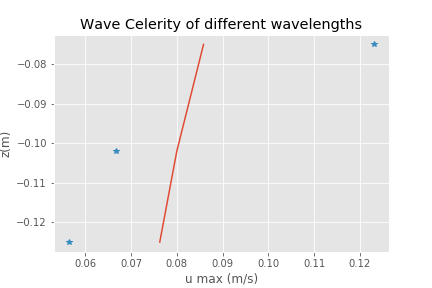
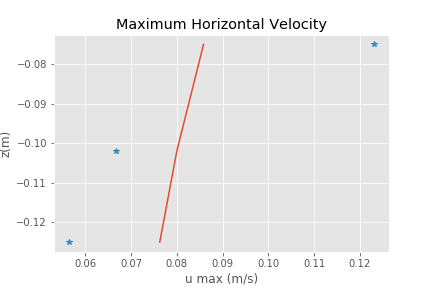
graphs

Changed region(s): [[0.1806, 0.0625, 0.8426, 0.125]]

diff --git a/Lab2_Coastal.md b/Lab2_Coastal.md
@@ -8,10 +8,14 @@ jpw236
 CEE4530 Lab 1
 
 #Introduction:
-A brief introduction to the lab and the purpose of the experiments.
+This lab was two parts each of which tested experimental data against theoretical models. The first part was using two wave gauges to match wave data. If the wave data was overlapping from the two gauges there were a wavelength apart(or at least an integer multiple of the wavelength).The second part of the lab was using the ADV to measure the difference in velocity at different depths beneath a wave. A thing that I think was helpful from the lab was getting a physical feeling for the theoretical relationships.
 #Experimental Setup:
 A brief description of the wave tank facility, wave gauges, ADV
 accompanied by a diagram showing the experimental setup.
+
+![experimental_apparatus_1](https://github.com/jillianwhiting/Jillian-Whiting/blob/master/Images/experimental_apparatus_1.png?raw=true)
+![experimental_apparatus_2](https://github.com/jillianwhiting/Jillian-Whiting/blob/master/Images/experimental_apparatus_2.png?raw=true)
+
 #Dispersion relation:
 Plots of $\frac{\sigma^{2}h}{g}$ as a function of $kh$. Two separate plots for the two different sets of amplitudes. On each plot, plot your experimental results and also the theoretical curve (as in HW1).
 $\frac{\sigma^{2}h}{g} = \frac{kh}{tanh^{-1}(kh)}$
@@ -99,10 +103,24 @@ horizontal axis, z on the vertical axis). Plot the theoretical curve on the same
 Explanation of your methods of analysis.
 
 ```python
-file = pd.read_csv('10_2.csv')
-u_vel = file["u_vel"].values
-w_vel = file["w_vel"].values
-v_vel = file["v_vel"].values
+sigma = 2*np.pi
+h = 0.195
+k = 5.194
+z1 = 0.102
+z2 = 0.125
+z3 = 0.175
+file1 = pd.read_csv('10_2.csv')
+u_vel_10_2 = file1["u_vel"].values
+w_vel_10_2 = file1["w_vel"].values
+v_vel_10_2 = file1["v_vel"].values
+file2 = pd.read_csv('12_5.csv')
+u_vel_12_5 = file2["u_vel"].values
+w_vel_12_5 = file2["w_vel"].values
+v_vel_12_5 = file2["v_vel"].values
+file3 = pd.read_csv('17_5.csv')
+u_vel_17_5 = file3["u_vel"].values
+w_vel_17_5 = file3["w_vel"].values
+v_vel_17_5 = file3["v_vel"].values
 def local(vector):
   N = len(vector)
   local_min = []
@@ -113,18 +131,96 @@ def local(vector):
     elif vector[i+25]==max(vector[i:i+50]):
       local_max = local_max+[i+25]
   return local_max,local_min
-
-[local_max_u,local_min_u] = local(u_vel[500:])
-local_max_u_val = u_vel[local_max_u]
-print(local_max_u_val)
-local_min_u_val = u_vel[local_min_u]
-plt.plot(u_vel)
-a = np.mean(local_max_u_val)
-print(a)
+def amp(u,z,sigma,k,h):
+  a = u/sigma * np.sinh(k*h)/np.cosh(k*(h-z))
+  return a
+[local_max_u,local_min_u] = local(u_vel_10_2[500:])
+local_max_u_val_10_2 = u_vel_10_2[local_max_u]
+local_min_u_val_10_2 = u_vel_10_2[local_min_u]
+u_max_10_2 = (local_max_u_val_10_2 - local_min_u_val_10_2) / 2
+a_10_2 = amp(u_max_10_2,z1,sigma,k,h)
+[local_max_u,local_min_u] = local(u_vel_12_5[500:])
+local_max_u_val_12_5 = u_vel_12_5[local_max_u]
+local_min_u_val_12_5 = u_vel_12_5[local_min_u[0:94]]
+u_max_12_5 = (local_max_u_val_12_5 - local_min_u_val_12_5) / 2
+a_12_5 = amp(u_max_12_5,z2,sigma,k,h)
+print(a_12_5)
+[local_max_u,local_min_u] = local(u_vel_17_5[500:])
+local_max_u_val_17_5 = u_vel_17_5[local_max_u]
+local_min_u_val_17_5 = u_vel_17_5[local_min_u]
+print(local_max_u_val_17_5)
+plt.plot(u_vel_17_5)
+a_12_5 = amp(.123,.075,sigma,k,h)
+print(a_12_5)
 
 ```
+By inspection of the local minimums and maximums, the amplitude of the maximum u velocity was:
+| Depth (cm) | $u_{max} \frac{m}{s}$ | amplitude |
+|:---------- |:--------------------- |:--------- |
+| 7.5        | .123                  | .0195     |
+| 10.2       | .0668                 | 0.0113    |
+| 12.5       | .0565                 | 0.0100    |
+
+The average amplitude is 0.0136 m.
+
+$u = a\sigma\frac{cosh(k(h+z))}{sinh(kh)}cos(kx-\sigma t)$
+$u_{max} = a\sigma\frac{cosh(k(h+z))}{sinh(kh)}$
+
+```python
+a = 0.0136
+z = np.array([0.075,0.102,0.125])*-1
+u_max = a * sigma * np.cosh(k*(h+z))/np.sinh(k*h)
+print(u_max)
+u_max_exp = np.array([0.123,0.0668,0.0565])
+plt.plot(u_max,z)
+plt.plot(u_max_exp,z,'*')
+plt.title('Maximum Horizontal Velocity')
+plt.xlabel('u max (m/s)')
+plt.ylabel('z(m)')
+plt.savefig('/Users/jillianwhiting/github/Jillian-Whiting/Images/u_max')
+plt.show()
+```
+
 #Water particle velocity:
 a vertical profile of maximum vertical velocity (wmax on the
 horizontal axis, z on the vertical axis). Plot the theoretical curve on the same plot.
 Explanation of your methods of analysis.
+
+$w = a\sigma\frac{sinh(k(h+z))}{sinh(kh)}sin(kx-\sigma t)$
+$w_{max} = a\sigma\frac{sinh(k(h+z))}{sinh(kh)}$
+
+```python
+[local_max_w,local_min_w] = local(w_vel_10_2[500:])
+local_max_w_val_10_2 = w_vel_10_2[local_max_w]
+local_min_w_val_10_2 = w_vel_10_2[local_min_w]
+w_max_10_2 = (local_max_w_val_10_2 - local_min_w_val_10_2) / 2
+[local_max_w,local_min_w] = local(w_vel_12_5[500:])
+local_max_w_val_12_5 = w_vel_12_5[local_max_w]
+local_min_w_val_12_5 = w_vel_12_5[local_min_w]
+w_max_12_5 = (local_max_w_val_12_5 - local_min_w_val_12_5) / 2
+print(w_max_12_5)
+[local_max_w,local_min_w] = local(w_vel_17_5[500:])
+local_max_w_val_17_5 = w_vel_17_5[local_max_w]
+local_min_w_val_17_5 = w_vel_17_5[local_min_w]
+print(local_min_w_val_17_5)
+
+```
+By inspection of the local minimums and maximums, the amplitude of the maximum u velocity was:
+| Depth (cm) | $w_{max} \frac{m}{s}$ |
+|:---------- |:--------------------- |
+| 7.5        | .0281                 |
+| 10.2       | .0122                 |
+| 12.5       | .0110                 |
+
+```python
+w_max = a * sigma * np.sinh(k*(h+z))/np.sinh(k*h)
+w_max_exp = np.array([0.2881,0.0112,0.0110])
+plt.plot(w_max,z)
+plt.plot(w_max_exp,z,'*')
+plt.title('Maximum vertical velocity')
+plt.xlabel('w max (m/s)')
+plt.ylabel('z(m)')
+plt.savefig('/Users/jillianwhiting/github/Jillian-Whiting/Images/u_max')
+plt.show()
+```
 #Discussion of experiments and results, and comparison to theory from lectures.
